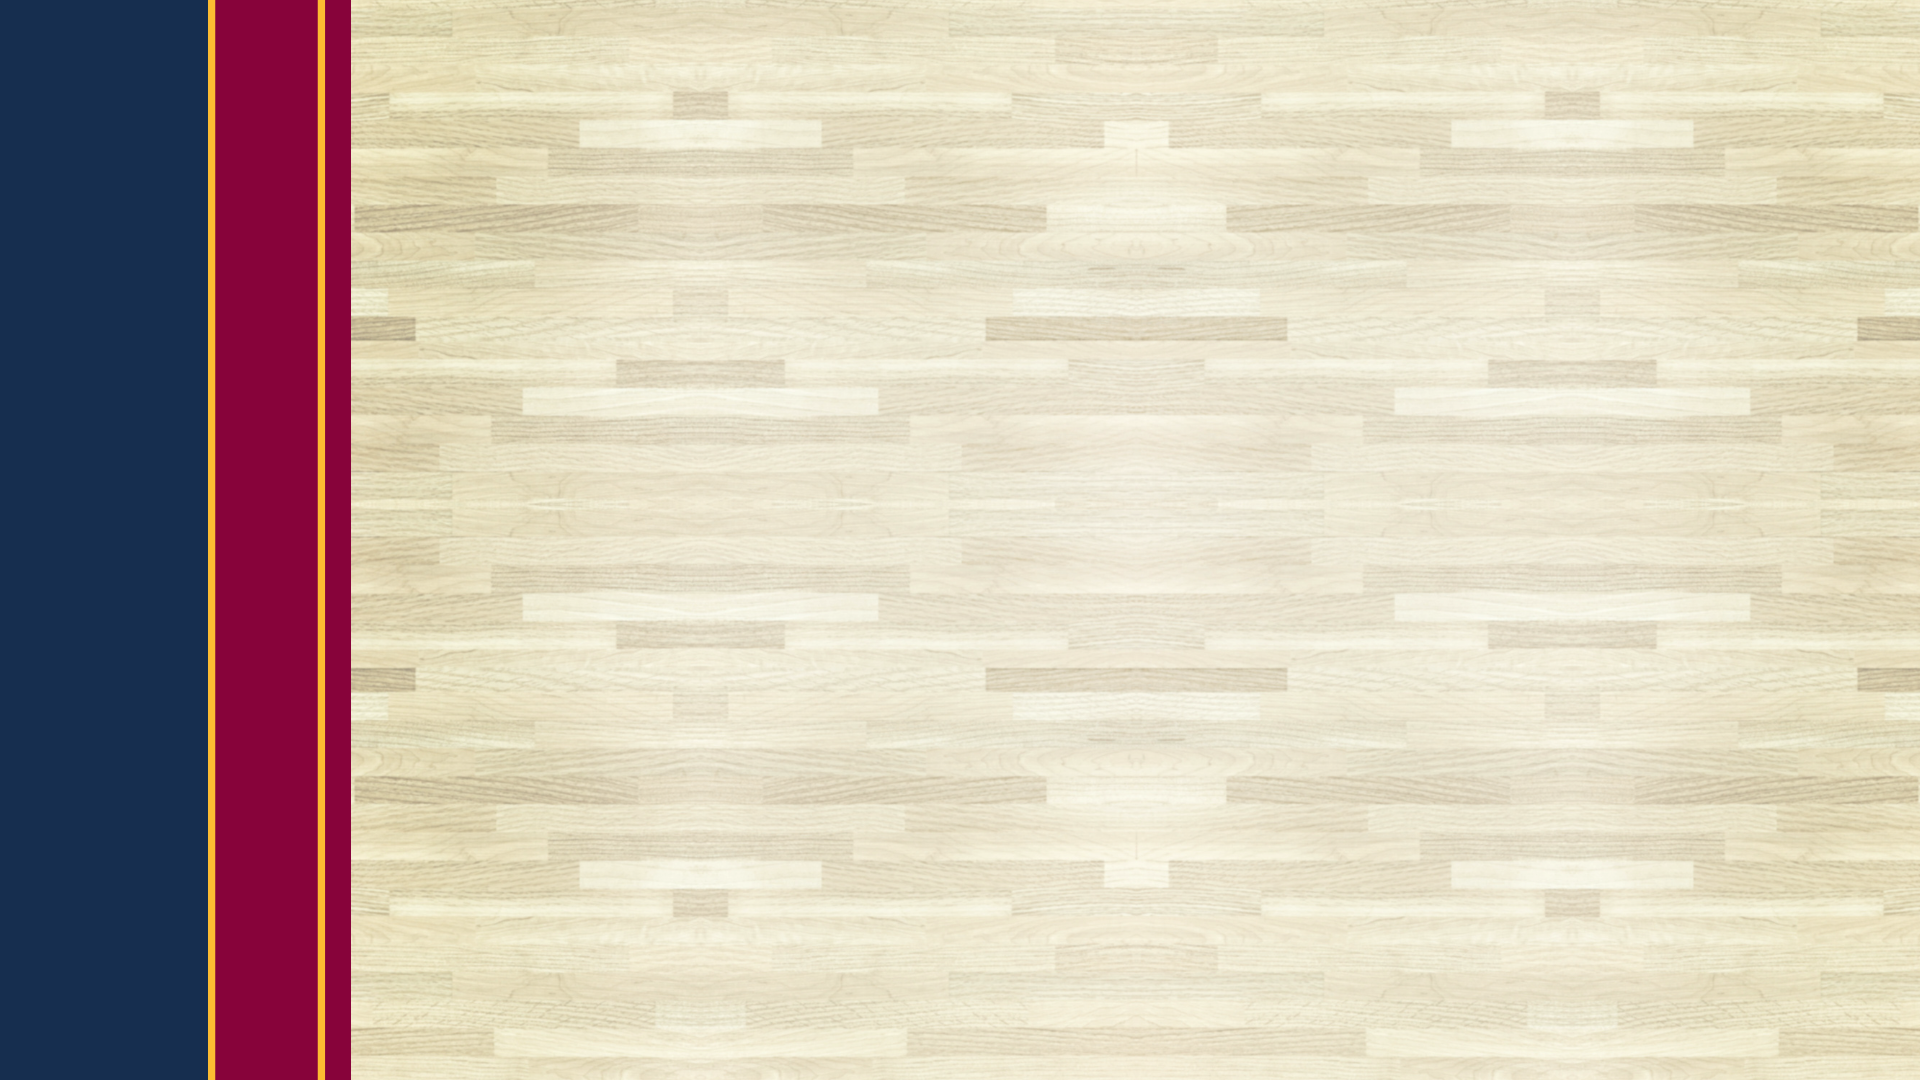
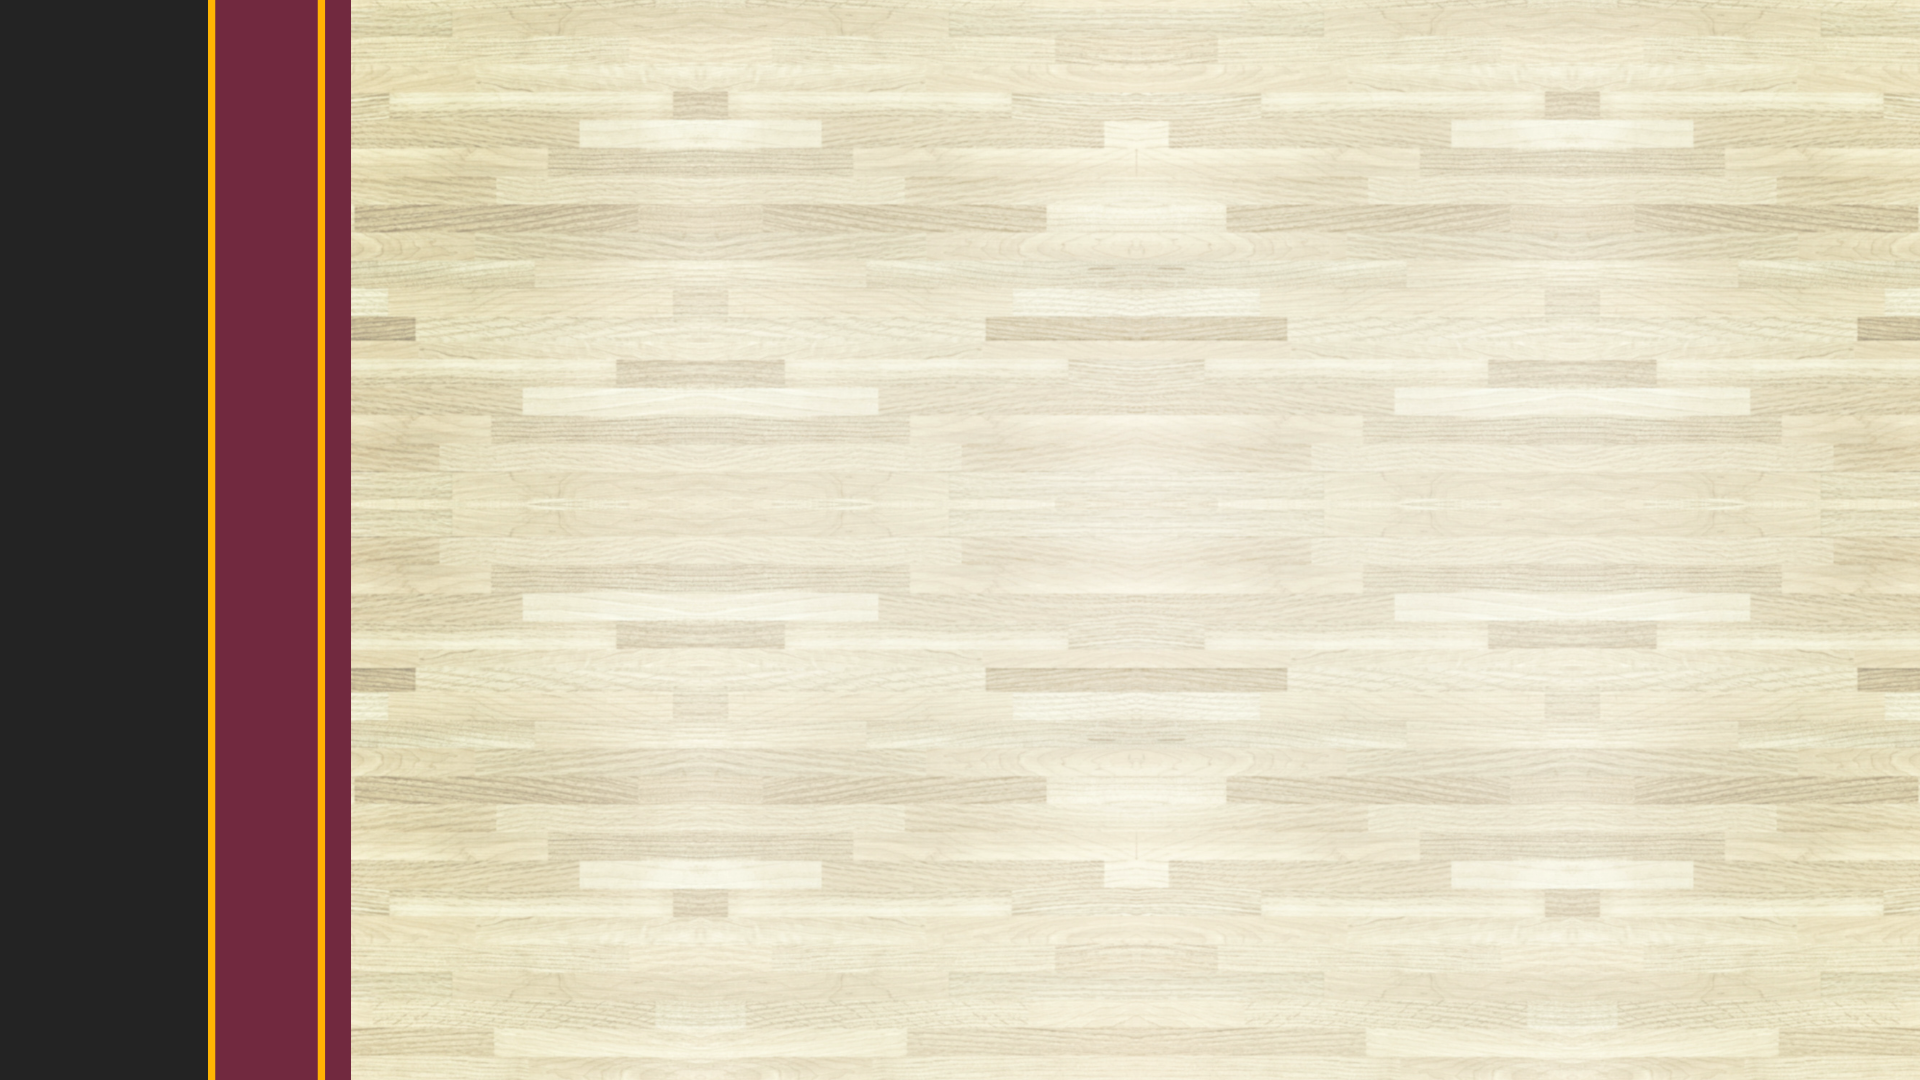
add responsive tailwind to landingpage and testpage, begin color theme update

Changed region(s): [[0.0, 0.0, 0.1875, 1.0]]

diff --git a/src/components/pages/LandingPage.tsx b/src/components/pages/LandingPage.tsx
@@ -71,25 +71,25 @@ export function LandingPage() {
     : players.filter((p) => p.active);
 
   return (
-    <div className="flex flex-col items-center justify-center min-h-screen gap-6">
-      <h1 className="text-[#860038] text-5xl font-cavsHeader font-bold drop-shadow-md mt-6">
+    <div className="flex flex-col items-center justify-center min-h-screen gap-6 px-4 md:px-8">
+      <h1 className="text-[#6F263D] text-3xl md:text-4xl lg:text-5xl font-cavsHeader font-bold drop-shadow-md mt-6 text-center">
         CAVS SHOOTING TRACKER
       </h1>
-      <h3 className="text-[#041e42] text-3xl font-cavsHeader font-bold drop-shadow-md">
+      <h3 className="text-[#121212] text-xl md:text-2xl lg:text-3xl font-cavsHeader font-bold drop-shadow-md text-center mb-8">
         THREE-POINT SHOOTING TEST
       </h3>
 
       {/* Test Type Selection */}
-      <div className="flex gap-6 bg-white/80 backdrop-blur-sm px-6 py-4 rounded-xl shadow-md">
+      <div className="flex flex-col md:flex-row gap-4 md:gap-6 bg-white/80 backdrop-blur-sm px-4 md:px-6 py-4 rounded-xl shadow-md w-full max-w-2xl">
         <label className="flex items-center gap-2 cursor-pointer">
           <input
             type="radio"
             value="standard"
             checked={testType === "standard"}
             onChange={(e) => setTestType(e.target.value as "standard")}
-            className="w-4 h-4"
+            className="w-5 h-5 md:w-4 md:h-4"
           />
-          <span className="font-semibold text-[#041e42]">
+          <span className="font-semibold text-[#121212] text-sm md:text-base">
             Standard Test (100 shots)
           </span>
         </label>
@@ -100,27 +100,27 @@ export function LandingPage() {
             value="zone"
             checked={testType === "zone"}
             onChange={(e) => setTestType(e.target.value as "zone")}
-            className="w-4 h-4"
+            className="w-5 h-5 md:w-4 md:h-4"
           />
-          <span className="font-semibold text-[#041e42]">
+          <span className="font-semibold text-[#121212] text-sm md:text-base">
             Zone Test (5 zones × 20 shots)
           </span>
         </label>
       </div>
 
-      {/* Player Section Section */}
-      <div className="w-full max-w-2xl">
-        <div className="flex justify-between items-center mb-4">
-          <h2 className="text-2xl font-bold text-[#860038]">
+      {/* Player Section */}
+      <div className="w-full max-w-2xl px-4">
+        <div className="flex flex-col md:flex-row justify-between items-start md:items-center mb-4 gap-3">
+          <h2 className="text-xl md:text-2xl font-bold text-[#6F263D]">
             Select a Player:
           </h2>
-          <div className="flex gap-3 items-center">
+          <div className="flex flex-col sm:flex-row gap-3 items-start sm:items-center w-full md:w-auto">
             <label className="flex items-center gap-2 bg-white/80 backdrop-blur-sm px-3 py-2 rounded-lg shadow-sm">
               <input
                 type="checkbox"
                 checked={showArchived}
                 onChange={(e) => setShowAchived(e.target.checked)}
-                className="w-4 h-4"
+                className="w-5 h-5 md:w-4 md:h-4"
               />
               <span className="text-sm font-medium">Show Archived</span>
             </label>
@@ -150,7 +150,7 @@ export function LandingPage() {
         </div>
 
         {/* Action Buttons */}
-        <div className="flex gap-4">
+        <div className="flex flex-col sm:flex-row gap-4 w-full">
           <Button
             onClick={handleStartTest}
             variant={selectedPlayerId ? "primary" : "inactive"}

diff --git a/src/components/pages/TestPage.tsx b/src/components/pages/TestPage.tsx
@@ -62,20 +62,20 @@ export function TestPage() {
   };
 
   return (
-    <div className="flex flex-col items-center justify-center min-h-screen gap-6">
-      <h1 className="text-[#860038] text-4xl font-cavsHeader font-bold drop-shadow-md">
+    <div className="flex flex-col items-center justify-center min-h-screen gap-6 px-4">
+      <h1 className="text-[#6F263D] text-2xl md:text-3xl lg:text-4xl font-cavsHeader font-bold drop-shadow-md text-center">
         THREE-POINT SHOOTING TEST
       </h1>
-      <h3 className="text-[#041e42] text-3xl font-cavsHeader font-semibold drop-shadow-sm">
+      <h3 className="text-[#121212] text-xl md:text-2xl lg:text-3xl font-cavsHeader font-semibold drop-shadow-sm text-center mb-8">
         Testing: {player.firstName} {player.lastName} #{player.jerseyNumber}
       </h3>
-      <div className="flex gap-4 mt-8">
+      <div className="flex flex-col sm:flex-row gap-4 mt-8">
         <StatDisplay label="Shots" value={AttemptedCount} />
         <StatDisplay label="Made" value={MadeCount} />
         <StatDisplay label="PCT %" value={`${percentage}%`} />
       </div>
       {!isComplete ? (
-        <div className="flex gap-4">
+        <div className="flex flex-col sm:flex-row gap-4 px-4 mx-auto">
           <Button onClick={handleMade} variant="success" size="large">
             Made
           </Button>
